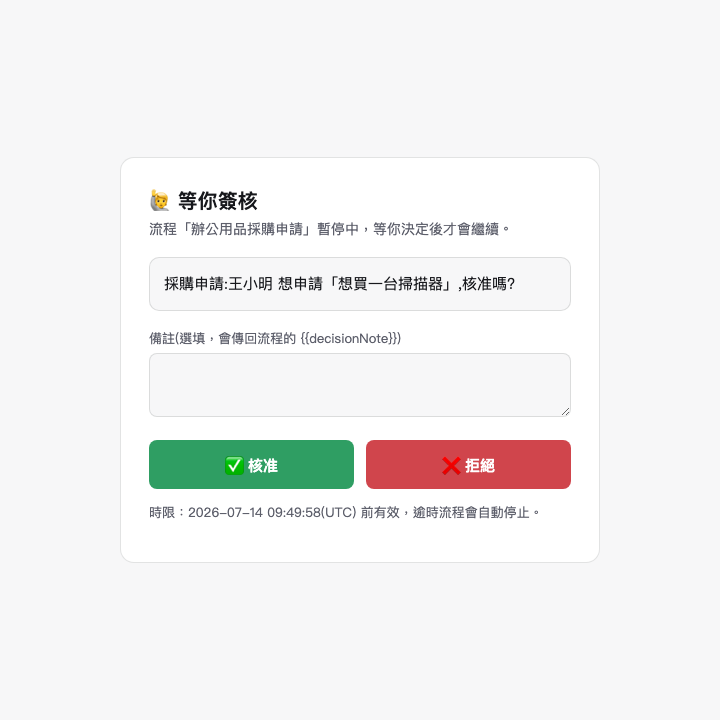
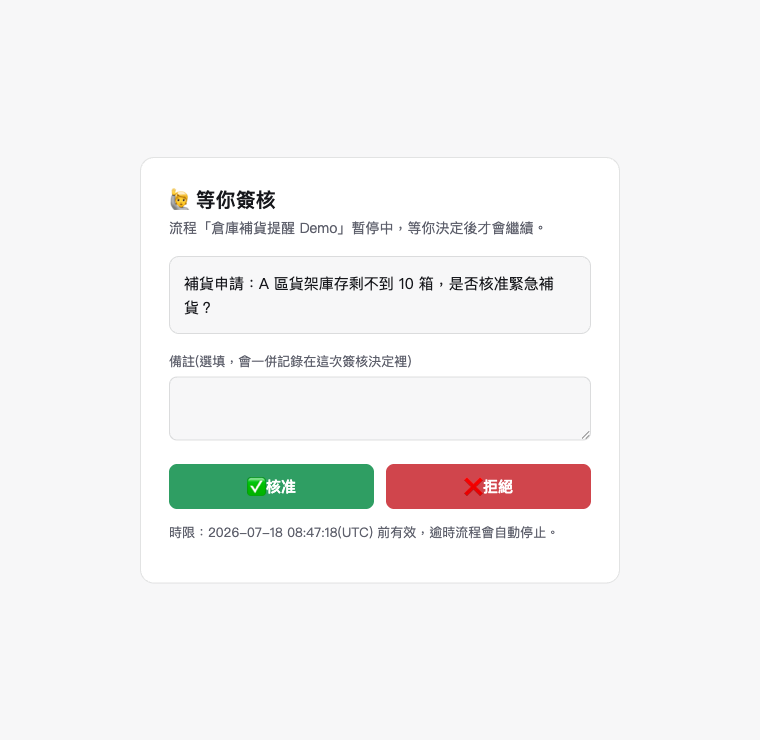
docs: README 補上這幾天新增的功能、重拍過期截圖；順手修掉簽核頁的樣板洩漏
README 加入：驗證看懂(唯讀試跑)、對話白話操控執行(具體修改優先於確認執行)、
手動拉線分支選擇器、畫布/對話分隔線可拖拉、匯入信任閘門、防重放確認機制；
目錄結構補上新增的關鍵檔案(chatCommand/fingerprint/previewReplay/
exportSanitizer/dataBackup/sheetWriteUrlMigration)。

canvas/ai-fix/approval-flow/approval-page/triggers 五張截圖用全新虛構的
「倉庫補貨」示範流程重拍(舊截圖是好幾天前的版面)；demo.gif 維持不動(需要
錄影工具，超出這次範圍)。

重拍簽核頁截圖時發現公開簽核頁的備註欄位標籤直接把 {{decisionNote}} 樣板
語法秀給使用者看，順手修成白話；已重新 build 並重啟正式伺服器讓所有今天
的修復(含 codex 那批)真正生效。

diff --git a/app/approve/[token]/route.ts b/app/approve/[token]/route.ts
@@ -49,7 +49,7 @@ export async function GET(_req: Request, { params }: { params: Promise<{ token: 
     `等你簽核｜${wfName}`,
     `<h1>🙋 等你簽核</h1><p class="sub">流程「${esc(wfName)}」暫停中，等你決定後才會繼續。</p>
      <div class="msg">${esc(a.message)}</div>
-     <form method="POST"><label>備註(選填，會傳回流程的 {{decisionNote}})</label><textarea name="note" maxlength="500"></textarea>
+     <form method="POST"><label>備註(選填，會一併記錄在這次簽核決定裡)</label><textarea name="note" maxlength="500"></textarea>
      <div class="row"><button class="approve" name="action" value="approve">✅ 核准</button><button class="reject" name="action" value="reject">❌ 拒絕</button></div></form>
      <p class="hint">時限：${esc(a.expires_at)}(UTC) 前有效，逾時流程會自動停止。</p>`,
   );

diff --git a/README.md b/README.md
@@ -40,10 +40,12 @@ Open http://127.0.0.1:3000 (bound to localhost only — other devices can't reac
 ## Building flows in plain language
 
 - **Build**: describe your need in the chat panel (you can upload screenshots/documents to help the AI understand). If anything is unclear, the AI asks before drawing → you confirm and apply.
-- **Manual editing is first-class too**: a "＋ Add step" drawer to browse every block, a "＋" on each edge to insert a step between two nodes, direct field editing on any node (change a URL or keyword without asking the AI), and Cmd/Ctrl-Z undo for every canvas edit. AI and manual modes work side by side.
+- **Manual editing is first-class too**: a "＋ Add step" drawer to browse every block, a "＋" on each edge to insert a step between two nodes, direct field editing on any node (change a URL or keyword without asking the AI), and Cmd/Ctrl-Z undo for every canvas edit. Dragging a connection into an if/switch/approval node first pops a plain-language branch picker (true/false, each case, approved/rejected, on-error) so a miswired edge never gets saved. The divider between the canvas and the chat panel is drag-resizable, so you can make room for a long flow or a long conversation. AI and manual modes work side by side.
 - **Tweak one step**: click a node on the canvas → say "search for the XX email instead" → the AI edits just that node; each node card also shows its key settings (which URL, which cases, which filename) at a glance.
 - **Self-repair on failure**: a node turns red → click "🔧 Let AI fix this step" → the AI reads the error and page screenshot and proposes a fix.
 - **Add/remove steps**: tell the AI "add an email-sending step at the end" or "drop the notification step".
+- **Verify understanding without touching your data**: no fresh data to run a real test with, but want proof the AI actually understood your file? Click "🔍 Verify understanding" in the chat and drop a file — the AI really reads it and computes the real numbers for you to check, running everything up to the point of writing — it never writes to a spreadsheet or sends a notification.
+- **Control execution by just talking**: "test it", "confirm, run for real", "stop", "what's the status", "approve/reject", "retry" — type these directly in chat, no need to hunt for a button. If a single message both requests an edit and mentions running it (e.g. "change step 9 to read E7, that should be fine, run for real") the concrete edit always takes priority — it won't get silently swallowed by a plain "confirm and run" classification.
 - **Standing preferences**: write your habits once on the Settings page ("always suffix filenames with today's date", "always notify via Telegram") — the AI honors them in every flow it builds, so you never repeat yourself.
 
 ![A failed node turns red: the error message is in plain words, with a one-click "Let AI fix this step"](docs/screenshots/ai-fix.png)
@@ -116,7 +118,9 @@ lib/workflow/
   graphRepair.ts               graph-aware repair shared by chat, autofix, and autorun; locates the actual upstream cause
   fixProposals.ts              background fix proposals for failed scheduled runs (one-click apply & re-run)
   learnedFixes.ts              remembered fixes, applied directly when similar errors recur
-  explain.ts                   translates the whole graph into plain-language steps
+  explain.ts plainLanguage.ts   translates the whole graph and its run results into plain language; code and internal field names never surface
+  chatCommand.ts                classifies plain-language chat commands (test/confirm-run/stop/repair/approve…); a concrete edit always wins over an execution classification
+  fingerprint.ts previewReplay.ts   replay protection: a preview can only be confirmed into a real run if the graph genuinely hasn't changed since
   store.ts                     workflows stored as data/workflows/*.json, with version backup/restore (history/)
   nodes/*.ts                   one file per node type
 lib/aiRetry.ts                 model-call retry (backoff + empty responses count as failures) + Claude Code fallback
@@ -130,6 +134,9 @@ lib/mailWatcher.ts              email trigger (60s IMAP poll, same claim/seed di
 lib/telegramPoller.ts          single Telegram getUpdates consumer: approval buttons + message trigger
 lib/lineHook.ts                 LINE webhook token + X-Line-Signature verification; endpoint at app/api/line-hooks/
 lib/notify.ts                  desktop notifications for schedule success/failure (macOS)
+lib/exportSanitizer.ts         replaces known secrets/script URLs with `{{field}}` placeholders on export — never leaks them in plaintext
+lib/dataBackup.ts              daily packages SQLite, workflow JSON/history, and `.env` into data/backups/
+lib/sheetWriteUrlMigration.ts  safely moves the old global Google Sheet write URL into each node's own field (crash-safe, resumable)
 data/                          local state (gitignored): DB, workflows, debug screenshots, output files
 docs/ARCHITECTURE_V2.md        the original design document (partially outdated; code and this README win)
 ```
@@ -151,6 +158,8 @@ node scripts/regression.mjs [from to]  # complex-request regression suite: repre
 - **This is a single-user local tool, bound to `127.0.0.1` by default** (`npm run dev` / `npm run start` both pass `-H 127.0.0.1`). **Do not change it to `-H 0.0.0.0` or host it publicly** — the `custom-code` node (AI-written custom steps) and the `http-request` node execute code / reach arbitrary URLs on your machine, so exposing them is equivalent to RCE/SSRF.
 - **Built-in cross-site protection** (`proxy.ts`): binding to 127.0.0.1 alone can't stop a malicious web page from making your own browser send requests to localhost. All `/api` requests verify the Host header (against DNS rebinding), and non-GET requests additionally require a local Origin — cross-site requests from external sites get 403.
 - **The `custom-code` node runs AI-generated code on your machine with your user permissions.** The normal UI shows only the step's plain-language purpose; code is generated on first execution and stored locally. Test the workflow visibly in draft mode before promoting it. Code embedded in imported workflow files is discarded and regenerated from the stated intent.
+- **Imported workflows of unknown origin are locked until you confirm.** Before an imported flow's first run, the UI spells out the risk plainly — it may read local files or send data to an external URL — and nothing executes until you confirm. No schedule or webhook can slip through before that confirmation.
+- **A confirmed "run for real" can't silently apply to a workflow that changed underneath it.** If you edit a node, connection, or parameter after a preview run, the old "confirm and run" no longer reuses the stale result — the server re-checks the flow's actual current content and asks you to preview again if anything changed.
 - **Webhook URLs are credentials**: the random token in the path is compared in constant time, and a wrong token returns the same 404 as a nonexistent workflow (no probing). Since the server only listens on 127.0.0.1, only programs on this machine can reach a webhook at all.
 - **Model fallback**: your configured (often free) API is primary; only when the whole retry chain fails does the local Claude Code CLI step in once (see `lib/aiRetry.ts`) — it's not called on every request and incurs no surprise costs.
 - License: MIT (see `LICENSE`).
